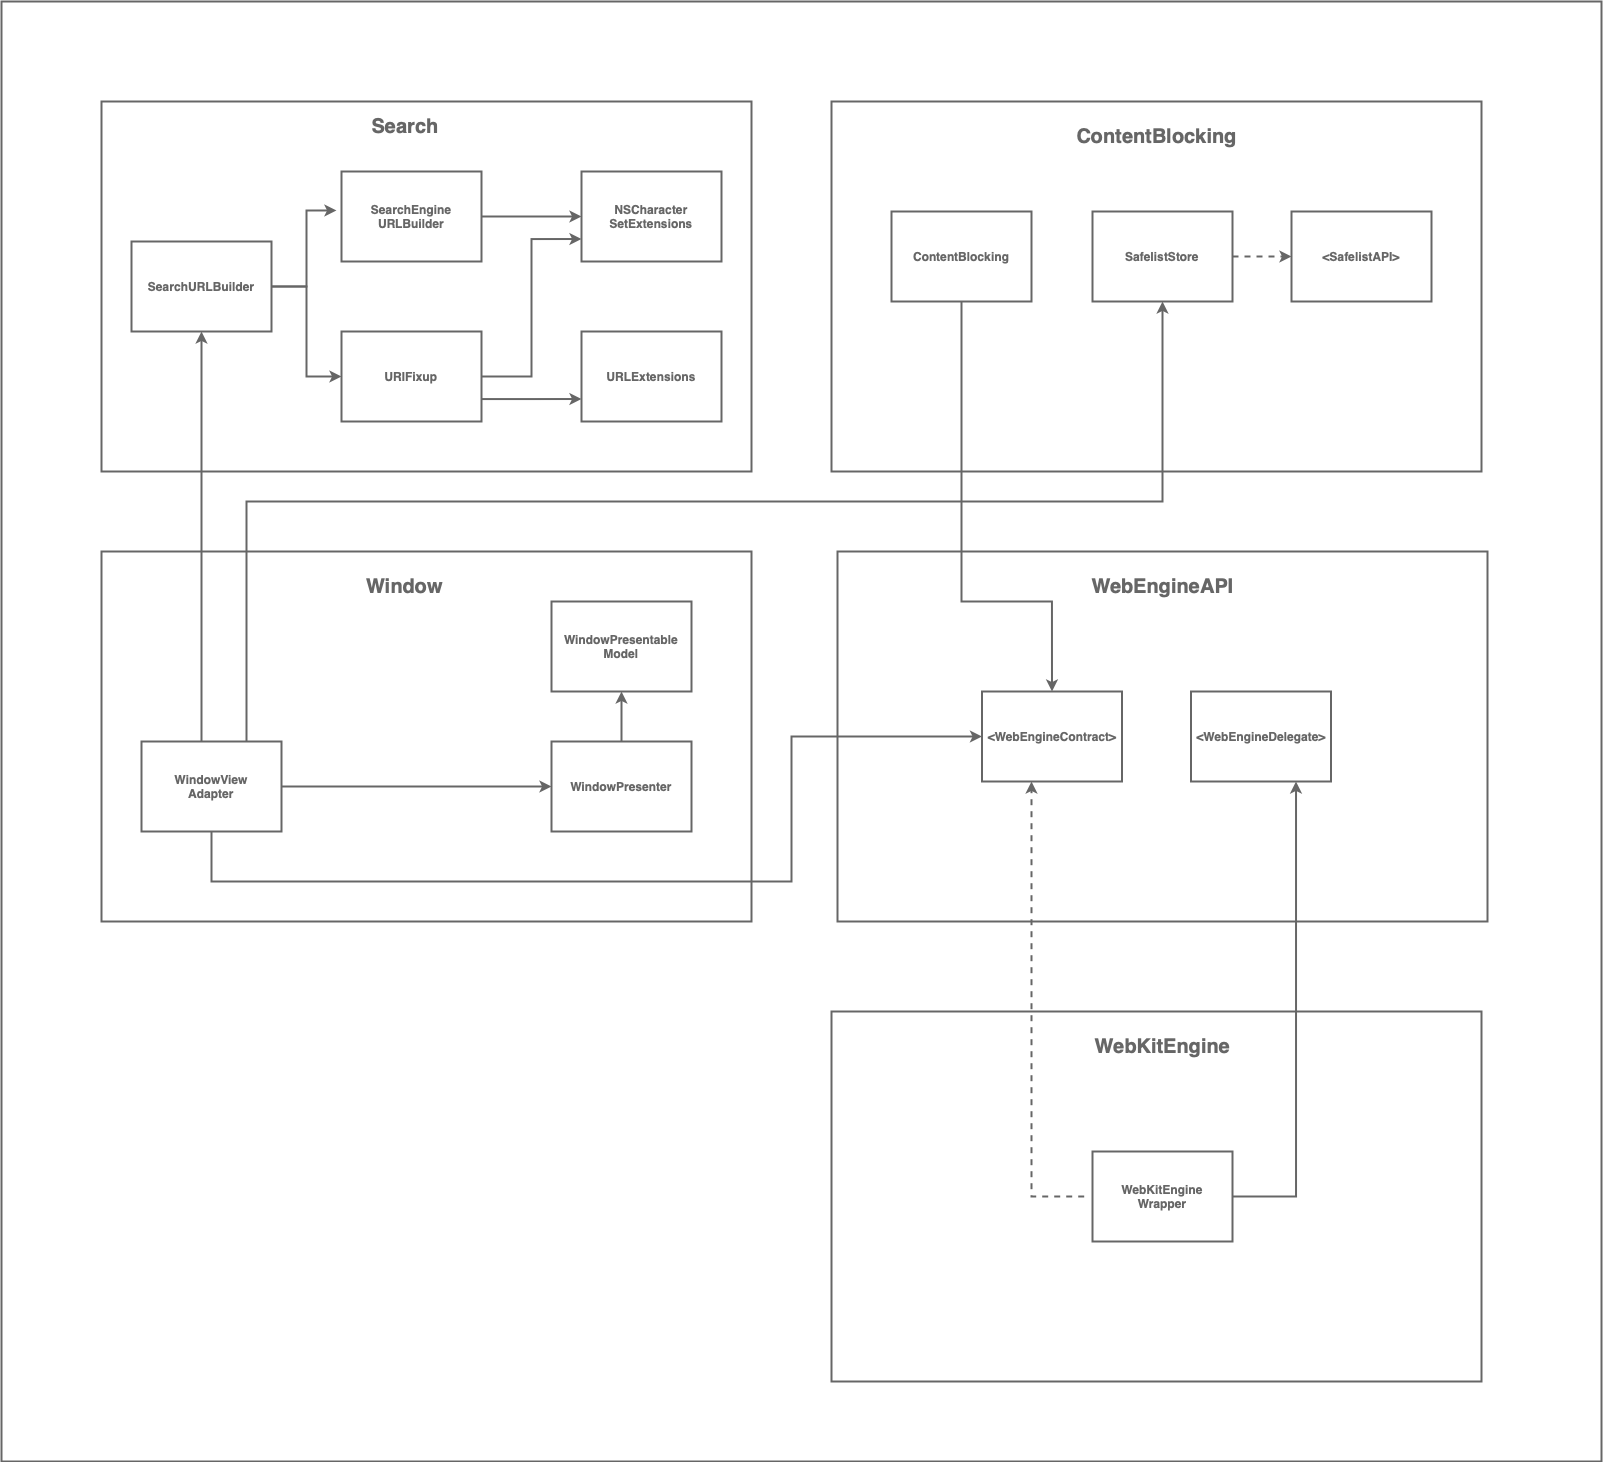
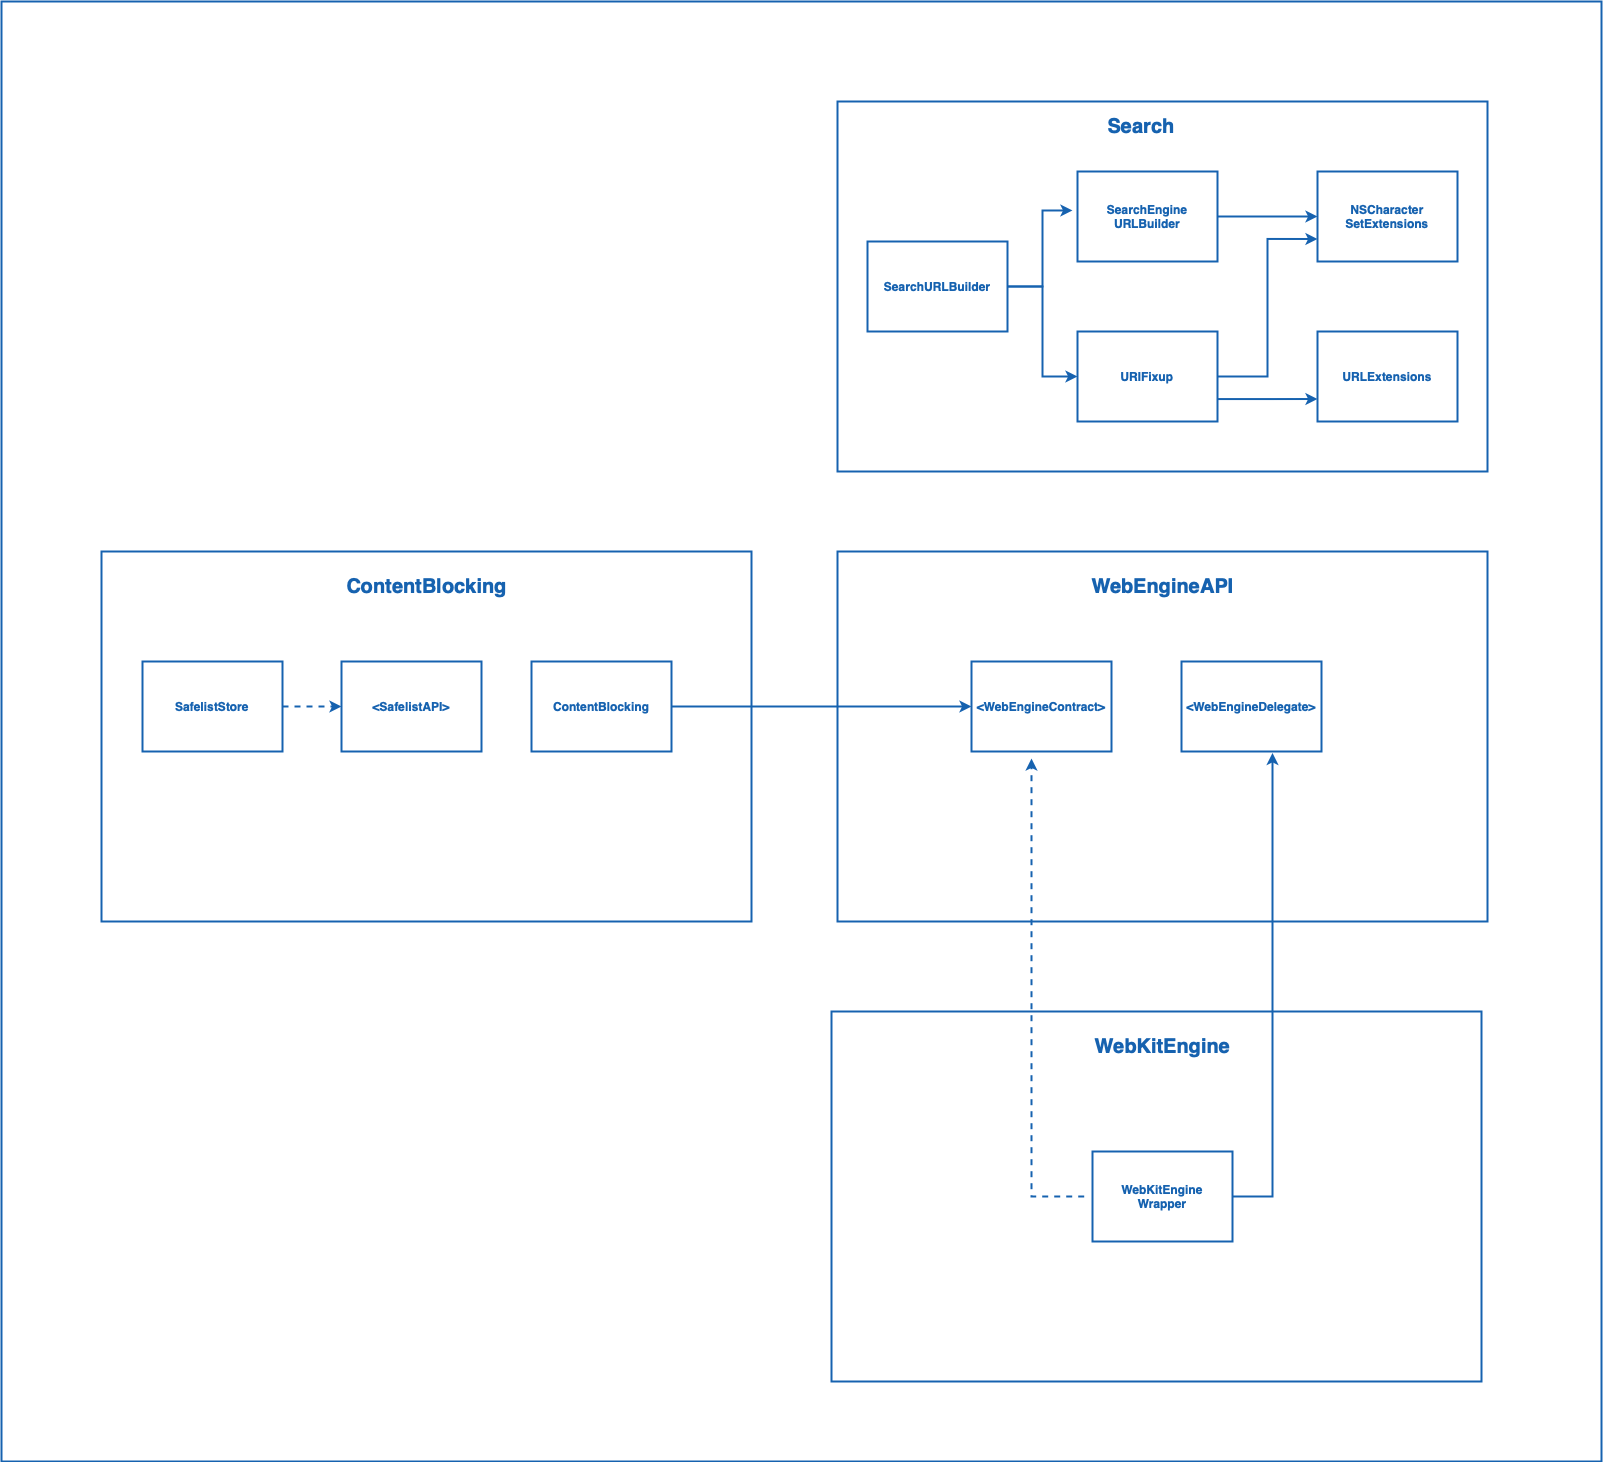
Update architecture diagram

diff --git a/README.md b/README.md
@@ -13,22 +13,23 @@ Contains all the code shared between iOS, macOS, and VisionOS. This library is c
 This library is separated by folders representing "sub-modules" in the system. The idea is to treat them as actual modules, although they reside in the same place. 
 
 ### WebEngineAPI
-It contains a set of interfaces that all the components of the system should use to communicate with the web engine. Those interfaces represent the web engine, but we don't talk directly with those engines. For example, WebKit is the web engine in this project, but all the components from this library don't talk directly to it; they only talk through the interfaces. 
+Contains a set of interfaces that all the components of the system should use to communicate with the web engine. Those interfaces represent the web engine, but we don't talk directly with those engines. For example, WebKit is the web engine in this project, but all the components from this library don't talk directly to it; they only talk through the interfaces. 
 
 ### WebKitEngine
 Contains all the code related to Webkit. It is basically a wrapper for Webkit that decouples this project from this library and facilitates future migrations to other engines. This is the only place in this library that contains code related to Webkit. 
 
 ### Search
-It contains logic that verifies whether the text typed by the user is a real URI or just plain text. If it's a valid URI, it redirects the user to the desired address; if not, it uses Google Search (at the moment)to search for the text.
+Contains logic that verifies whether the text typed by the user is a real URI or just plain text. If it's a valid URI, it redirects the user to the desired address; if not, it uses Google Search (at the moment)to search for the text.
 
 ### Content Blocking
-It contains logic to apply restrictions on a website. It has rules to block cookies, crypto mining, fingerprints, and other activities. Those rules are applied by level(basic and strict). It also contains a safelist for adding exceptions to certain websites. 
-
-### Window (out of date)
-It contains all the logic and state of the current window. Things like whether a page is loading or whether a website protection button should appear or not, for example, reside here. All user interactions go through here as well. If the users start typing, tap on the back/forward button, and add a website to the safelist, for example. 
+Contains logic to apply restrictions on a website. It has rules to block cookies, crypto mining, fingerprints, and other activities. Those rules are applied by level(basic and strict). It also contains a safelist for adding exceptions to certain websites. 
 
 
 ![Current Core Library Architecture](core-module-current-architecture.png)
 
-## Client App Architecture (out of date)
+## Client App Architecture
+
+### Window
+Contains all the logic and state of the current window. Things like whether a page is loading or whether a website protection button should appear or not, for example, reside here. All user interactions go through here as well. If the users start typing, tap on the back/forward button, and add a website to the safelist, for example. 
+
 ![Current Client App Architecture](client-architecture.png)
